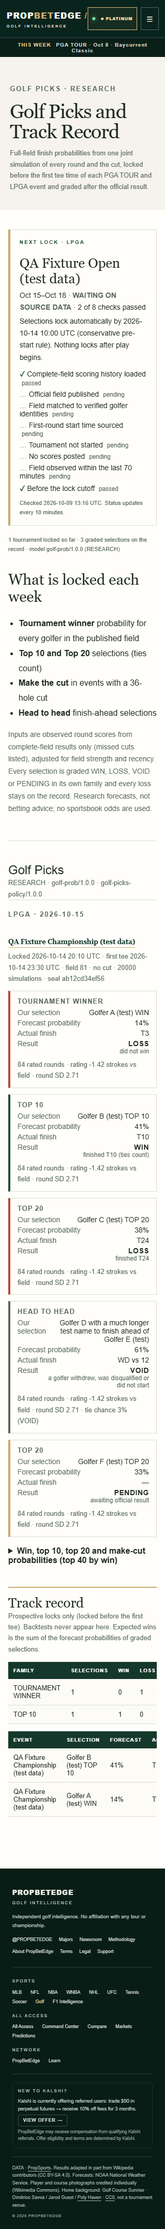
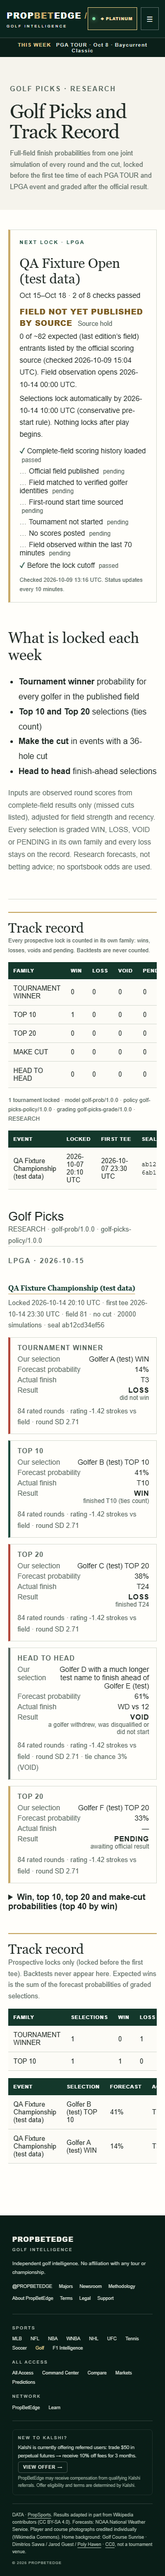
Golf Picks (golf#9): specific readiness reasons, read-only source probe, permanent public record, nav/hub entry points
- gate.js readinessReason: source hold / technical / policy / schedule with the exact pending condition
  (e.g. FIELD NOT YET PUBLISHED BY SOURCE: 0 of ~82 expected, checked HH:MM UTC; observation opens ...).
  The eight gate checks and the automatic lock rule are unchanged.
- picks-health gateCheck context: snapshot presence, observation window (live lane observes from 00:00 UTC
  the day before the start), prior field size, and a 2-request read-only ESPN core probe of the field.
- Public preview: permanent record (W/L/VOID/PENDING per family), versions, lock evidence (time, first tee,
  sha256); unresolved selections still never public. Members' module never disappears.
- Nav 'Picks & Record'; All Access hub links to Golf Picks and Track Record.

Changed region(s): [[0.0, 0.0, 1.0, 0.9963], [0.0312, 0.0934, 0.0625, 0.1245]]

diff --git a/src/lib/picks-ui.js b/src/lib/picks-ui.js
@@ -12,6 +12,7 @@ export function picksPage(){
 <section class="data-section"><h2>What is locked each week</h2>
 <ul class="pk-families"><li><b>Tournament winner</b> probability for every golfer in the published field</li><li><b>Top 10 and Top 20</b> selections (ties count)</li><li><b>Make the cut</b> in events with a 36-hole cut</li><li><b>Head to head</b> finish-ahead selections</li></ul>
 <p class="gnote">Inputs are observed round scores from complete-field results only (missed cuts listed), adjusted for field strength and recency. Every selection is graded WIN, LOSS, VOID or PENDING in its own family and every loss stays on the record. Research forecasts, not betting advice; no sportsbook odds are used.</p></section>
+<section class="pk-record" id="track-record" data-picks-record aria-labelledby="pk-rec-h"><h2 id="pk-rec-h">Track record</h2><p class="gnote">Every prospective lock is counted in its own family: wins, losses, voids and pending. Backtests are never counted.</p></section>
 <div class="premium-lock" data-premium="picks"><span class="lock-mark" aria-hidden="true">◆</span><div><h3>This week’s selections and the full track record</h3><p>Selections, probabilities, actual finishes and grades are included with PropBetEdge All Access.</p><p class="premium-status" role="status">Included with PropBetEdge All Access.</p><a class="button button-gold" href="/all-access">All Access details</a></div></div>
 </div>`;
 }
@@ -19,10 +20,12 @@ export function picksPage(){
 // Only real status facts render; when the API has nothing to say the slot is removed (no empty-state filler).
 const day=d=>d?new Date(d+'T12:00:00Z').toLocaleDateString('en-US',{month:'short',day:'numeric',timeZone:'UTC'}):'';
 export function readinessHtml(r){
+ if(r&&!r.edition&&r.reason)return `<section class="pk-ready"><p class="eyebrow">NEXT LOCK</p><p class="pk-reason pk-k-${e(r.reason.kind)}"><b>${e(r.reason.headline)}</b></p><p class="pk-ready-meta">${e(r.reason.detail)}</p></section>`;
  if(!r?.edition)return '';
  const done=r.checks.filter(c=>c.ok).length;
  return `<section class="pk-ready" aria-labelledby="pk-ready-h"><p class="eyebrow">NEXT LOCK · ${e(r.edition.tour||'')}</p><h2 id="pk-ready-h">${e(r.edition.name)}</h2>
-<p class="pk-ready-meta">${e(day(r.edition.starts_on))}${r.edition.ends_on?'–'+e(day(r.edition.ends_on)):''} · <b class="${r.state==='READY'?'pk-win':'pk-pending'}">${r.state==='READY'?'READY TO LOCK':'WAITING ON SOURCE DATA'}</b> · ${done} of ${r.checks.length} checks passed</p>
+<p class="pk-ready-meta">${e(day(r.edition.starts_on))}${r.edition.ends_on?'–'+e(day(r.edition.ends_on)):''} · ${done} of ${r.checks.length} checks passed</p>
+<p class="pk-reason pk-k-${e(r.reason?.kind||'other')}"><b>${e(r.reason?.headline||(r.state==='READY'?'READY TO LOCK':'CHECKS PENDING'))}</b>${r.reason?.kind?` <small>${e({source_hold:'Source hold',technical:'Technical',policy:'Lock policy',schedule:'Schedule',ready:'Ready'}[r.reason.kind]||'')}</small>`:''}</p>${r.reason?.detail?`<p class="pk-ready-meta">${e(r.reason.detail)}</p>`:''}
 <p class="pk-ready-meta">Selections lock automatically by ${e(fmt(r.expected_lock_by))} (${e(r.start_basis)}${r.first_tee?`: ${e(fmt(r.first_tee))}`:''}). Nothing locks after play begins.</p>
 <ul class="pk-checks">${r.checks.map(c=>`<li class="${c.ok?'ok':'wait'}"><span aria-hidden="true">${c.ok?'✓':'…'}</span> ${e(c.label)} <small>${c.ok?'passed':'pending'}</small></li>`).join('')}</ul>
 <p class="gnote">Checked ${e(fmt(r.checked_at))}. Status updates every 10 minutes.</p></section>`;
@@ -31,10 +34,16 @@ export function resolvedHtml(rows){
  if(!rows?.length)return '';
  return `<section class="pk-record pk-resolved"><h2>Resolved results</h2><p class="gnote">Every graded selection from locked tournaments, losses included. Research forecasts, not betting advice.</p><div class="table-wrap" tabindex="0" role="region" aria-label="Resolved results"><table class="index-table"><thead><tr><th>Event</th><th>Selection</th><th>Forecast</th><th>Actual</th><th>Result</th></tr></thead><tbody>${rows.map(r=>`<tr><td>${e(r.edition)}</td><td>${e(r.name)} ${e(r.family==='h2h'?'ahead of '+(r.opponent||''):r.proposition)}</td><td>${pct(r.p)}</td><td>${e(r.actual||'—')}</td><td><b class="${GRADE_CLASS[r.grade]||''}">${e(r.grade)}</b></td></tr>`).join('')}</tbody></table></div></section>`;
 }
+export function recordHtml(p){
+ if(!p?.record)return '';
+ const v=p.versions||{};
+ return `<div class="table-wrap" tabindex="0" role="region" aria-label="Track record by family"><table class="index-table"><thead><tr><th>Family</th><th>Win</th><th>Loss</th><th>Void</th><th>Pending</th><th>Hit rate</th></tr></thead><tbody>${p.record.map(f=>`<tr><td>${e(f.label)}</td><td>${e(f.WIN)}</td><td>${e(f.LOSS)}</td><td>${e(f.VOID)}</td><td>${e(f.PENDING)}</td><td>${f.hit_rate===null?'—':pct(f.hit_rate)}</td></tr>`).join('')}</tbody></table></div>
+<p class="gnote">${e(p.tournaments_locked)} tournament${p.tournaments_locked===1?'':'s'} locked · model ${e(v.model||p.model)} · policy ${e(v.policy||'')} · grading ${e(v.grading||'')} · RESEARCH</p>
+${p.locks?.length?`<div class="table-wrap" tabindex="0" role="region" aria-label="Lock evidence"><table class="index-table"><thead><tr><th>Event</th><th>Locked</th><th>First tee</th><th>Seal (sha256)</th><th>Selections</th></tr></thead><tbody>${p.locks.map(l=>`<tr><td>${e(l.edition)}</td><td>${e(fmt(l.locked_at))}</td><td>${e(l.first_tee?fmt(l.first_tee):'conservative rule')}</td><td><code>${e(String(l.lock_sha256||'').slice(0,16))}</code></td><td>${e(l.resolved)}/${e(l.selections)} resolved</td></tr>`).join('')}</tbody></table></div>`:'<p>The record starts at the first prospective lock.</p>'}`;
+}
 export function picksPreviewHtml(p){
  if(!p)return '';
  const parts=[readinessHtml(p.readiness),resolvedHtml(p.resolved)];
- if(p.tournaments_locked)parts.push(`<p class="gnote pk-preview">${e(p.tournaments_locked)} tournament${p.tournaments_locked===1?'':'s'} locked so far · ${e(p.selections_graded)} graded selection${p.selections_graded===1?'':'s'} on the record · model ${e(p.model)} (RESEARCH)</p>`);
  return parts.join('');
 }
 function selectionCard(s){
@@ -45,7 +54,7 @@ function selectionCard(s){
 }
 export function picksMember(data){
  const items=data?.items||[];
- if(!items.length)return '';
+ if(!items.length)return `<h2>Golf Picks</h2><p class="gnote">${e(data?.label||'RESEARCH')} · ${e(data?.model||'')} · ${e(data?.policy||'')}</p><p>No tournament is locked yet. When the next event passes every readiness check, its selections and full probabilities appear here automatically.</p>`;
  return `<h2>Golf Picks</h2><p class="gnote">${e(data.label||'RESEARCH')} · ${e(data.model)} · ${e(data.policy)}</p>`+items.map(it=>`<section class="pk-event"><p class="eyebrow">${e(it.edition.tour||'')} · ${e(it.edition.starts_on)}</p><h3><a class="text-link" href="/tournament/${e(it.edition.slug)}">${e(it.edition.name)}</a></h3>
 <p class="pk-lockline">Locked ${e(fmt(it.locked_at))}${it.start_evidence?.first_tee?` · first tee ${e(fmt(it.start_evidence.first_tee))}`:''} · field ${e(it.field_size)} · ${it.cut?.applies?`cut top ${e(it.cut.rank)} and ties`:'no cut'} · ${e(it.sims)} simulations · seal ${e(String(it.lock_sha256).slice(0,12))}</p>
 <ul class="pk-cards">${it.selections.map(selectionCard).join('')}</ul>
@@ -53,7 +62,7 @@ export function picksMember(data){
 }
 export function trackRecordMember(rec){
  if(!rec)return '';
- const fams=(rec.families||[]).filter(f=>f.selections);
+ const fams=rec.families||[];
  if(!fams.length)return '';
  return `<section class="pk-record"><h2>Track record</h2><p class="gnote">Prospective locks only (locked before the first tee). Backtests never appear here. Expected wins is the sum of the forecast probabilities of graded selections.</p>
 <div class="table-wrap" tabindex="0" role="region" aria-label="Track record by family"><table class="index-table"><thead><tr><th>Family</th><th>Selections</th><th>Win</th><th>Loss</th><th>Void</th><th>Pending</th><th>Hit rate</th><th>Expected wins</th><th>Brier</th></tr></thead><tbody>${fams.map(f=>`<tr><td>${e(f.label)}</td><td>${e(f.selections)}</td><td>${e(f.WIN)}</td><td>${e(f.LOSS)}</td><td>${e(f.VOID)}</td><td>${e(f.PENDING)}</td><td>${f.hit_rate===null?'—':pct(f.hit_rate)}</td><td>${e(f.expected_wins)}</td><td>${f.brier===null?'—':e(f.brier)}</td></tr>`).join('')}</tbody></table></div>

diff --git a/workers/shared/picks/gate.js b/workers/shared/picks/gate.js
@@ -44,9 +44,40 @@ export function lockDecision(g,snap){
  const reason=k==='before_lock_cutoff'?(g.first_tee?'past_lock_deadline':'hold_no_tee_time_after_conservative_deadline'):REASON[k]||k;
  return {ok:false,reason,first_tee:g.first_tee};
 }
+// Why an event is not ready, in one specific sentence (issue golf#9): source hold vs technical vs policy vs
+// schedule. ctx (recorded by the health step): snapshot_present, observation_opens (golf-ingest observes a field
+// from 00:00 UTC the day before the start date), source {competitors, status, checked_at} (read-only ESPN core
+// probe), prior_field_size (last complete edition of the same tournament).
+const day=iso=>iso?iso.slice(0,16).replace('T',' ')+' UTC':null;
+export function readinessReason(g,ctx={}){
+ if(!g)return null;
+ if(g.reason==='no_upcoming_edition')return {code:'no_event',kind:'schedule',headline:'NO APPROVED FUTURE EVENT',detail:'No upcoming PGA TOUR or LPGA individual stroke-play event is on the published schedule.'};
+ if(g.reason==='projection_unavailable')return {code:'projection_unavailable',kind:'technical',headline:'SCHEDULE DATA UNAVAILABLE',detail:'The published golf schedule could not be read on the last check.'};
+ if(g.state==='READY')return {code:'ready',kind:'ready',headline:'READY TO LOCK',detail:`Every check passed. Selections lock on the next 10-minute run, no later than ${day(g.cutoff)}.`};
+ const f=new Set(g.failing||[]),src=ctx.source||null,prior=ctx.prior_field_size?` of ~${ctx.prior_field_size} expected (last edition’s field)`:'';
+ if(ctx.snapshot_present&&f.has('pre_start')&&g.checks?.pre_start?.value&&g.checks.pre_start.value!=='STATUS_SCHEDULED')return {code:'started',kind:'policy',headline:'TOURNAMENT UNDER WAY: NO PICK PERMITTED',detail:'Play has begun, so no selection can be locked for this event.'};
+ if(f.has('no_scores_posted')&&ctx.snapshot_present)return {code:'scores_posted',kind:'policy',headline:'SCORES POSTED: NO PICK PERMITTED',detail:'Scores are already posted, so no selection can be locked for this event.'};
+ if(f.has('before_lock_cutoff'))return {code:'past_cutoff',kind:'policy',headline:'PAST SAFE CUTOFF: NO PICK PERMITTED',detail:`The lock cutoff (${day(g.cutoff)}) has passed without every check passing.`};
+ if(f.has('model_store_complete'))return {code:'model_loading',kind:'technical',headline:'MODEL HISTORY LOADING',detail:'Complete-field scoring history is still being loaded into the model.'};
+ if(!ctx.snapshot_present){
+  const opens=ctx.observation_opens&&Date.parse(ctx.observation_opens)>Date.parse(g.checked_at);
+  if(src&&Number.isInteger(src.competitors)&&src.competitors===0)return {code:'field_unpublished',kind:'source_hold',headline:'FIELD NOT YET PUBLISHED BY SOURCE',detail:`0${prior} entrants listed by the official scoring source (checked ${day(src.checked_at)}).${opens?` Field observation opens ${day(ctx.observation_opens)}.`:''}`};
+  if(src&&src.competitors>0&&opens)return {code:'awaiting_observation',kind:'schedule',headline:'FIELD PUBLISHED · OBSERVATION OPENS SOON',detail:`${src.competitors}${prior} entrants listed by the source (checked ${day(src.checked_at)}). Tee times and the full field are observed from ${day(ctx.observation_opens)}.`};
+  if(opens)return {code:'awaiting_observation',kind:'schedule',headline:`FIELD CHECKS OPEN ${day(ctx.observation_opens)}`,detail:'The field and tee times are observed from 00:00 UTC the day before the start date.'};
+  return {code:'feed_missing',kind:'technical',headline:'SCORING FEED NOT YET OBSERVED',detail:'The observation window is open but no field snapshot has been recorded yet.'};
+ }
+ if(f.has('snapshot_fresh'))return {code:'feed_stale',kind:'technical',headline:'FIELD REFRESH DELAYED',detail:`The last field observation is older than 70 minutes (${day(g.checks.snapshot_fresh.value)}).`};
+ if(f.has('field_published'))return {code:'field_unpublished',kind:'source_hold',headline:'FIELD NOT YET PUBLISHED BY SOURCE',detail:`${g.checks.field_published.value}${prior} entrants listed so far; at least 30 are required.`};
+ if(f.has('field_mapped'))return {code:'mapping',kind:'source_hold',headline:'MATCHING GOLFER IDENTITIES',detail:`${Math.round((g.checks.field_mapped.value||0)*100)}% of the field matched to verified identities; 60% required.`};
+ if(f.has('start_time_sourced'))return {code:'no_start_time',kind:'source_hold',headline:'START TIME NOT YET SOURCED',detail:'No round-one tee time is published yet.'};
+ if(f.has('pre_start'))return {code:'started',kind:'policy',headline:'TOURNAMENT UNDER WAY: NO PICK PERMITTED',detail:'Play has begun, so no selection can be locked for this event.'};
+ return {code:'other',kind:'technical',headline:'CHECKS PENDING',detail:(g.failing||[]).map(k=>CHECK_LABEL[k]||k).join(', ')};
+}
 // Public readiness (no golfer, selection or probability).
-export function readinessView(g,edition){
- if(!g||!edition)return null;
- return {state:g.state,edition:{name:edition.name,starts_on:edition.starts_on,ends_on:edition.ends_on||null,tour:edition.tour||null},checked_at:g.checked_at,expected_lock_by:g.cutoff,start_basis:g.first_tee?'first sourced round-one tee time':'conservative pre-start rule',first_tee:g.first_tee,
+export function readinessView(g,edition,ctx){
+ if(!g)return null;
+ const why=readinessReason(g,ctx||g.context||{});
+ if(!edition)return {state:g.state||'NOT_READY',reason:why,edition:null,checked_at:g.checked_at||null,checks:[]};
+ return {state:g.state,reason:why,observation_opens:(ctx||g.context||{}).observation_opens||null,source:(ctx||g.context||{}).source||null,edition:{name:edition.name,starts_on:edition.starts_on,ends_on:edition.ends_on||null,tour:edition.tour||null},checked_at:g.checked_at,expected_lock_by:g.cutoff,start_basis:g.first_tee?'first sourced round-one tee time':'conservative pre-start rule',first_tee:g.first_tee,
   checks:Object.entries(g.checks).map(([k,c])=>({key:k,label:CHECK_LABEL[k]||k,ok:c.ok}))};
 }

diff --git a/tests/browser/picks.spec.js b/tests/browser/picks.spec.js
@@ -10,7 +10,10 @@ const item={edition:{slug:'qa-fixture-edition',name:'QA Fixture Championship (te
 const record={families:[{family:'winner',label:'TOURNAMENT WINNER',selections:1,WIN:0,LOSS:1,VOID:0,PENDING:0,hit_rate:0,expected_wins:0.1,brier:0.0202},{family:'top10',label:'TOP 10',selections:1,WIN:1,LOSS:0,VOID:0,PENDING:0,hit_rate:1,expected_wins:0.4,brier:0.3481}],
  rows:[{edition_name:'QA Fixture Championship (test data)',name:'Golfer B (test)',family:'top10',proposition:'TOP 10',p:0.41,actual:'T10',grade:'WIN'},{edition_name:'QA Fixture Championship (test data)',name:'Golfer A (test)',family:'winner',proposition:'WIN',p:0.142,actual:'T3',grade:'LOSS'}]};
 const PREVIEW={availability:'available',model:'golf-prob/1.0.0',label:'RESEARCH',tournaments_locked:1,selections_graded:3,resolved:[{edition:'QA Fixture Championship (test data)',family:'top10',proposition:'TOP 10',name:'Golfer B (test)',p:0.41,actual:'T10',grade:'WIN'}],
- readiness:{state:'NOT_READY',edition:{name:'QA Fixture Open (test data)',starts_on:'2026-10-15',ends_on:'2026-10-18',tour:'LPGA'},checked_at:'2026-10-09T13:16:53Z',expected_lock_by:'2026-10-14T10:00:00.000Z',start_basis:'conservative pre-start rule',first_tee:null,
+ versions:{model:'golf-prob/1.0.0',policy:'golf-picks-policy/1.0.0',grading:'golf-picks-grade/1.0.0'},
+ record:['TOURNAMENT WINNER','TOP 10','TOP 20','MAKE CUT','HEAD TO HEAD'].map((label,i)=>({family:'f'+i,label,selections:i===1?1:0,WIN:i===1?1:0,LOSS:0,VOID:0,PENDING:0,hit_rate:i===1?1:null,expected_wins:0})),
+ locks:[{edition:'QA Fixture Championship (test data)',starts_on:'2026-10-08',locked_at:'2026-10-07T20:10:00Z',first_tee:'2026-10-07T23:30:00Z',lock_sha256:'ab12cd34ef56ab12cd34ef56ab12cd34',selections:5,resolved:4}],
+ readiness:{state:'NOT_READY',reason:{code:'field_unpublished',kind:'source_hold',headline:'FIELD NOT YET PUBLISHED BY SOURCE',detail:'0 of ~82 expected (last edition’s field) entrants listed by the official scoring source (checked 2026-10-09 15:04 UTC). Field observation opens 2026-10-14 00:00 UTC.'},edition:{name:'QA Fixture Open (test data)',starts_on:'2026-10-15',ends_on:'2026-10-18',tour:'LPGA'},checked_at:'2026-10-09T13:16:53Z',expected_lock_by:'2026-10-14T10:00:00.000Z',start_basis:'conservative pre-start rule',first_tee:null,
   checks:[['Complete-field scoring history loaded',true],['Official field published',false],['Field matched to verified golfer identities',false],['First-round start time sourced',false],['Tournament not started',false],['No scores posted',false],['Field observed within the last 70 minutes',false],['Before the lock cutoff',true]].map(([label,ok],i)=>({key:'k'+i,label,ok}))}};
 async function asMember(page){
  await page.route('**/api/v1/membership',r=>r.fulfill({json:{membership:{contract:'1.4.0',sport:'golf',state:'all_access',entitled:true,access_source:'all_access'},verification:'network'}}));
@@ -22,7 +25,7 @@ test('static /picks HTML carries no selection or probability',async({request})=>
 for(const width of WIDTHS){
  test(`picks guest ${width}: lock only, no values`,async({page})=>{
   await page.route('**/api/v1/membership',r=>r.fulfill({json:{membership:{sport:'golf',state:'free',entitled:false},verification:'no_session'}}));
-  await page.route('**/api/v1/picks/preview',r=>r.fulfill({json:{...PREVIEW,tournaments_locked:0,selections_graded:0,resolved:[]}}));
+  await page.route('**/api/v1/picks/preview',r=>r.fulfill({json:{...PREVIEW,tournaments_locked:0,selections_graded:0,resolved:[],locks:[],record:PREVIEW.record.map(f=>({...f,selections:0,WIN:0,hit_rate:null}))}}));
   await page.setViewportSize({width,height:900});await page.goto('/picks',{waitUntil:'networkidle'});
   await expect(page.locator('[data-premium="picks"] .premium-status')).toBeVisible();await expect(page.locator('.pk-card')).toHaveCount(0);
   expect(await page.evaluate(()=>document.documentElement.scrollWidth<=innerWidth)).toBe(true);expect(await page.locator('[style]').count()).toBe(0);
@@ -34,7 +37,7 @@ for(const width of WIDTHS){
   await expect(page.locator('.pk-card')).toHaveCount(5);
   const first=page.locator('.pk-card').nth(1);for(const t of ['Our selection','Forecast probability','Actual finish','Result'])await expect(first).toContainText(t);
   await expect(first).toContainText('41%');await expect(first).toContainText('T10');await expect(first).toContainText('WIN');
-  await expect(page.locator('.pk-record:not(.pk-resolved)')).toContainText('TOURNAMENT WINNER');await expect(page.locator('.pk-preview')).toContainText('1 tournament locked');await expect(page.locator('.pk-ready')).toBeVisible();
+  await expect(page.locator('.picks-unlocked .pk-record')).toContainText('TOURNAMENT WINNER');await expect(page.locator('#track-record')).toContainText('ab12cd34ef56ab12');await expect(page.locator('.pk-ready')).toBeVisible();
   const ov=await page.evaluate(()=>({s:document.documentElement.scrollWidth,w:innerWidth}));expect(ov.s<=ov.w,JSON.stringify(ov)).toBe(true);
   expect(await page.locator('[style]').count()).toBe(0);expect(errors).toEqual([]);
   const axe=await new AxeBuilder({page}).withTags(['wcag2a','wcag2aa','wcag21aa']).analyze();expect(axe.violations.map(v=>v.id+': '+v.nodes.slice(0,2).map(n=>n.target).join(' | '))).toEqual([]);

diff --git a/src/main.ts b/src/main.ts
@@ -15,7 +15,7 @@ import {portrait,e} from './lib/ui.js';
 // @ts-ignore
 import {accessView,statePanel,lockStatus} from './lib/all-access-page.js';
 // @ts-ignore Golf Picks (All Access): member values only after golf-api verification
-import {picksMember,trackRecordMember,picksPreviewHtml} from './lib/picks-ui.js';
+import {picksMember,trackRecordMember,picksPreviewHtml,recordHtml} from './lib/picks-ui.js';
 // @ts-ignore
 import {heroLive,liveRail,liveBoard,playerLive,weatherNow,statusModule} from './lib/live-ui.js';
 // @ts-ignore
@@ -118,13 +118,13 @@ async function premium(){
   if(mod==='player-dna'&&parts[0]==='player')path='player-dna/'+parts[1];else if(mod==='course-fit'&&parts[0]==='course')path='course-dna/'+parts[1];else if(mod==='field'&&parts[0]==='tournament')path='field/'+parts[1];else if(mod==='matchups'&&parts[0]==='matchups')path='matchups/'+parts[1]+'/'+parts[2];
   if(mod==='picks'){const [p,t]=await Promise.all([api('picks').then(r=>r.ok?r.json():null).catch(()=>null),api('picks/track-record').then(r=>r.ok?r.json():null).catch(()=>null)]);
    if(!p){const s=$('.premium-status',l);if(s)s.textContent=lockStatus(accessView(mem,{failed:false}));continue;}
-   const html=picksMember(p)+trackRecordMember(t?.record);if(!html){l.remove();continue;}l.classList.add('unlocked','picks-unlocked');l.innerHTML=html;document.querySelectorAll('.pk-resolved').forEach(x=>x.remove());document.documentElement.dataset.picksMember='1';continue;}
+   const html=picksMember(p)+trackRecordMember(t?.record);l.classList.add('unlocked','picks-unlocked');l.innerHTML=html;document.querySelectorAll('.pk-resolved').forEach(x=>x.remove());document.documentElement.dataset.picksMember='1';continue;}
   if(!path)continue;const r=await api('intelligence/'+path).then(r=>r.ok?r.json():null).catch(()=>null);if(!r?.data){const s=$('.premium-status',l);if(s)s.textContent='All Access verified. Not enough comparable sample for this module.';continue;}
   if(mod==='player-dna'){fillRaw(document,r.data.dna,'data-raw');mountDnaWindows(r.data.dna);}if(mod==='matchups'){fillRaw(document,r.data.a?.dna,'data-raw-a');fillRaw(document,r.data.b?.dna,'data-raw-b');}
   l.classList.add('unlocked');l.innerHTML=mod==='player-dna'?premiumDna(r.data):mod==='course-fit'?premiumFit(r.data):mod==='field'?premiumField(r.data):premiumMatchup(r.data);}
 }
 premium();
-{const pv=$('[data-picks-preview]');if(pv)api('picks/preview').then(r=>r.ok?r.json():null).then(p=>{const h=picksPreviewHtml(document.documentElement.dataset.picksMember?{...p,resolved:[]}:p);if(h)pv.innerHTML=h;else pv.remove();}).catch(()=>pv.remove());}
+{const pv=$('[data-picks-preview]');if(pv)api('picks/preview').then(r=>r.ok?r.json():null).then(p=>{const h=picksPreviewHtml(document.documentElement.dataset.picksMember?{...p,resolved:[]}:p);if(h)pv.innerHTML=h;else pv.remove();const rc=$('[data-picks-record]');if(rc){const r=recordHtml(p);if(r)rc.insertAdjacentHTML('beforeend',r);}}).catch(()=>pv.remove());}
 // All Access: both DNA windows exist only after server-side verification, so the toggle appears only then. Switching
 // re-renders the radar, cards, dimension rows, cohort context and raw values for that window (never mixed).
 function mountDnaWindows(dna:any){

diff --git a/workers/golf-ingest/src/picks-health.js b/workers/golf-ingest/src/picks-health.js
@@ -3,6 +3,7 @@
 // and records to KV picks:health:v1 + private R2 picks/v1/health/latest.json. No alert channel is bound in this
 // repo, so a FAIL is recorded and surfaced (admin + aggregate on /health); it is not pushed anywhere.
 import {evaluateGate} from '../../shared/picks/gate.js';
+import {CORE,getJSON as espnJSON} from './espn.js';
 import {PREFIX,lockKey,listKeys,getJSON,verifySeal,sha256,canonical} from '../../shared/picks/ledger.js';
 import {formatExcluded} from '../../shared/picks/policy.js';
 import {resultFrom,STORE_KEY} from './picks.js';
@@ -12,7 +13,7 @@ const pj=(b,k)=>b.get(k).then(o=>o?o.json():null).catch(()=>null);
 const slugsOf=keys=>keys.map(k=>k.slice((PREFIX+'locks/').length,-5));
 
 // Next eligible edition + the shared gate (same implementation as the lock step).
-export async function gateCheck(env,now=new Date()){
+export async function gateCheck(env,now=new Date(),{probe=true}={}){
  const t=now.getTime(),ix=await pj(env.PUBLIC,'projection/v2/index.json');if(!ix)return {state:'NOT_READY',reason:'projection_unavailable'};
  const locked=new Set(slugsOf(await listKeys(env.RAW,PREFIX+'locks/')));
  const next=ix.editions.filter(e=>e.starts_on&&!['completed','cancelled'].includes(e.status)&&Date.parse(e.starts_on)+DAY>t&&!formatExcluded(e.slug)&&!locked.has(e.slug)).sort((a,b)=>a.starts_on<b.starts_on?-1:1)[0];
@@ -22,6 +23,15 @@ export async function gateCheck(env,now=new Date()){
  const snap=await pj(env.PUBLIC,'live/v1/events/'+next.slug+'.json');
  const g=evaluateGate({snap,edition:next,now,storeComplete:Boolean(store)&&want.every(e=>have.has(e.slug))});
  g.checks.model_store_complete.value=`${have.size}/${want.length}`;
+ // Context for the specific readiness message (golf#9). The live lane observes an edition from 00:00 UTC the day
+ // before its start date; before that, a read-only ESPN core probe (1 request, approved host) reports whether the
+ // source has published the field yet. Informational only: the gate itself is unchanged.
+ const tslug=next.tournament?.slug||null,prior=tslug?(store?.editions||[]).filter(x=>x.tournament===tslug).at(-1):null;
+ g.context={snapshot_present:Boolean(snap),observation_opens:new Date(Date.parse(next.starts_on+'T00:00:00Z')-DAY).toISOString(),prior_field_size:prior?prior.rows.length:null,source:null};
+ if(!snap&&probe){try{const d=await pj(env.PUBLIC,'projection/v2/editions/'+next.slug+'.json');if(d?.espn?.event_id&&d.espn.league){const id=d.espn.event_id,base=`${CORE}/leagues/${d.espn.league}/events/${id}/competitions/${id}`;
+  const [c,st]=await Promise.all([espnJSON(base+'/competitors?limit=1'),espnJSON(base+'/status')]);g.context.source={competitors:Number.isInteger(c?.count)?c.count:null,status:st?.type?.name||null,checked_at:new Date().toISOString(),provider:'ESPN core (read-only)'};}
+  else g.context.source={competitors:null,status:null,checked_at:new Date().toISOString(),error:'no_source_event_mapping'};}
+ catch(e){g.context.source={competitors:null,status:null,checked_at:new Date().toISOString(),error:'source_read_failed'};}}
  return {...g,edition:{slug:next.slug,name:next.name,starts_on:next.starts_on,ends_on:next.ends_on||null,tour:next.tour?.short||next.tours?.[0]||null}};
 }
 

diff --git a/workers/shared/picks/views.js b/workers/shared/picks/views.js
@@ -1,15 +1,20 @@
 // Public Golf Picks view (owner, 2026-10-09): readiness of the next supported tournament + RESOLVED results only.
 // A selection is public only after it is graded WIN / LOSS / VOID; locked-but-unresolved selections and every
 // probability table stay All Access only.
-import {FAMILY_LABEL,FAMILIES} from './policy.js';
+import {FAMILY_LABEL,FAMILIES,POLICY_VERSION,GRADE_VERSION} from './policy.js';
+import {trackRecord} from './ledger.js';
 import {MODEL_VERSION} from './model.js';
 import {readinessView} from './gate.js';
 const RESOLVED=new Set(['WIN','LOSS','VOID']);
 export function picksPreview(items,health){
  const resolved=[];
  for(const it of items)for(const s of it.selections)if(RESOLVED.has(s.grade))resolved.push({edition:it.edition.name,starts_on:it.edition.starts_on,family:s.family,family_label:FAMILY_LABEL[s.family],proposition:s.proposition,name:s.name,opponent:s.opponent?.name||null,p:s.p,actual:s.actual||null,grade:s.grade});
- const g=health?.gate&&health.gate.edition?readinessView(health.gate,health.gate.edition):null;
+ const g=health?.gate?readinessView(health.gate,health.gate.edition||null):null;
+ // Permanent public record: counts per family (W/L/VOID/PENDING), versions and lock evidence. No selection is
+ // named until it is resolved (the rows of trackRecord are NOT included here).
+ const rec=trackRecord(items).families.map(({family,label,selections,WIN,LOSS,VOID,PENDING,hit_rate,expected_wins})=>({family,label,selections,WIN,LOSS,VOID,PENDING,hit_rate,expected_wins}));
+ const locks=items.map(it=>({edition:it.edition.name,starts_on:it.edition.starts_on,locked_at:it.locked_at,first_tee:it.start_evidence?.first_tee||null,freeze_rule:it.freeze?.rule||null,lock_sha256:it.lock_sha256||null,model:it.model||null,policy:it.policy||null,selections:(it.selections||[]).length,resolved:(it.selections||[]).filter(x=>RESOLVED.has(x.grade)).length}));
  return {availability:'available',model:MODEL_VERSION,label:'RESEARCH',families:FAMILIES.map(f=>FAMILY_LABEL[f]),tournaments_locked:items.length,selections_graded:resolved.filter(r=>r.grade!=='VOID').length,
   latest:items[0]?{edition:items[0].edition.name,starts_on:items[0].edition.starts_on,locked_at:items[0].locked_at}:null,
-  lane:health?{enabled:Boolean(health.enabled),checked_at:health.checked_at,status:health.status}:null,readiness:g,resolved:resolved.slice(0,200)};
+  versions:{model:MODEL_VERSION,policy:POLICY_VERSION,grading:GRADE_VERSION},record:rec,locks,lane:health?{enabled:Boolean(health.enabled),checked_at:health.checked_at,status:health.status}:null,readiness:g,resolved:resolved.slice(0,200)};
 }

diff --git a/src/lib/all-access-page.js b/src/lib/all-access-page.js
@@ -73,7 +73,7 @@ export function allAccessPage(){
      <ul class="aa-sports">${SPORTS.map(s=>s.key===SELF?`<li class="is-here"><span aria-current="page"><b>${e(s.label)}</b><em>YOU ARE HERE</em></span></li>`:`<li><a href="${e(s.url)}" rel="noopener"><b>${e(s.label)}</b><em>OPEN SPORT →</em></a></li>`).join('')}</ul>
      <div class="aa-products">${products}</div>
    </section>
-   <section class="aa-golf-layer"><div class="aa-golf-copy"><span class="micro-label">GOLF · PUBLIC LAYER</span><h2>Keep the sport useful before the paywall.</h2><p>Scores, records, majors, player pages, course history and public DNA fingerprints remain open discovery surfaces.</p></div><div class="aa-golf-copy is-premium"><span class="micro-label">GOLF · ALL ACCESS LAYER</span><h2>Unlock the underlying intelligence.</h2><p>Raw DNA values, cohort sizes, both analysis windows, Course Fit components, field intelligence and matchup DNA detail stay behind verified All Access.</p></div></section>
+   <section class="aa-golf-layer"><div class="aa-golf-copy"><span class="micro-label">GOLF · PUBLIC LAYER</span><h2>Keep the sport useful before the paywall.</h2><p>Scores, records, majors, player pages, course history and public DNA fingerprints remain open discovery surfaces.</p></div><div class="aa-golf-copy is-premium"><span class="micro-label">GOLF · ALL ACCESS LAYER</span><h2>Unlock the underlying intelligence.</h2><p>Raw DNA values, cohort sizes, both analysis windows, Course Fit components, field intelligence and matchup DNA detail stay behind verified All Access.</p><p><a class="text-link" href="/picks">Golf Picks</a> · <a class="text-link" href="/picks#track-record">Track Record</a>: locked full-field forecasts, graded in public.</p></div></section>
    <div class="aa-trust-row"><span>NO GOLF-ONLY PLAN</span><span>ONE NETWORK MEMBERSHIP</span><span>SERVER-VERIFIED ACCESS</span><span>${e(OFFER_LINE.toUpperCase())}</span></div>
  </div>`;
 }

diff --git a/src/lib/render.js b/src/lib/render.js
@@ -10,7 +10,7 @@ import {allAccessPage} from './all-access-page.js';
 import {picksPage} from './picks-ui.js';
 export const escapeHtml=e;
 export const ALL_ACCESS_URL='https://propbetedge.ai/pro';
-export const NAV=[['/today','Today'],['/live','Live'],['/tournaments','Tournaments'],['/players','Players'],['/matchups','Matchups'],['/courses','Courses'],['/majors','Majors'],['/pbecast','PBEcast'],['/picks','Picks'],['/news','News'],['/intelligence','Intelligence'],['/search','Search']];
+export const NAV=[['/today','Today'],['/live','Live'],['/tournaments','Tournaments'],['/players','Players'],['/matchups','Matchups'],['/courses','Courses'],['/majors','Majors'],['/pbecast','PBEcast'],['/picks','Picks & Record'],['/news','News'],['/intelligence','Intelligence'],['/search','Search']];
 const notFound=()=>`<section class="page-heading data-heading"><div>${kicker('404')}<h1>This page is out of bounds.</h1><p>The page or record you asked for is not in coverage.</p>${go('/','Return home','button button-gold')}</div></section>`;
 // Index only pages that pass a quality floor; thin entities stay noindex. Every route carries its own
 // title, description, canonical, social image and connected JSON-LD graph (see seo.js).

diff --git a/src/picks.css b/src/picks.css
@@ -23,3 +23,7 @@
 .pk-ready h2{font:26px var(--serif);margin:2px 0 6px}.pk-ready-meta{font-size:14px;margin:4px 0;overflow-wrap:anywhere}
 .pk-checks{list-style:none;padding:0;margin:10px 0;display:grid;gap:6px;grid-template-columns:repeat(auto-fill,minmax(min(100%,260px),1fr))}
 .pk-checks li{font-size:14px}.pk-checks li.ok span{color:var(--pine-2);font-weight:700}.pk-checks li.wait span{color:var(--muted)}.pk-checks small{color:var(--muted);margin-left:4px}
+.pk-reason{margin:8px 0 2px;font:700 15px var(--sans);letter-spacing:.03em}.pk-reason small{font-weight:400;color:var(--muted);margin-left:6px;letter-spacing:0}
+.pk-k-ready b{color:var(--pine-2)}.pk-k-technical b{color:var(--red)}.pk-k-source_hold b,.pk-k-schedule b,.pk-k-policy b{color:#7a5a1f}
+.pk-record code{font-size:12px;overflow-wrap:anywhere}
+.aa-golf-copy.is-premium .text-link{color:#e4c874;text-decoration:underline;text-underline-offset:2px}
